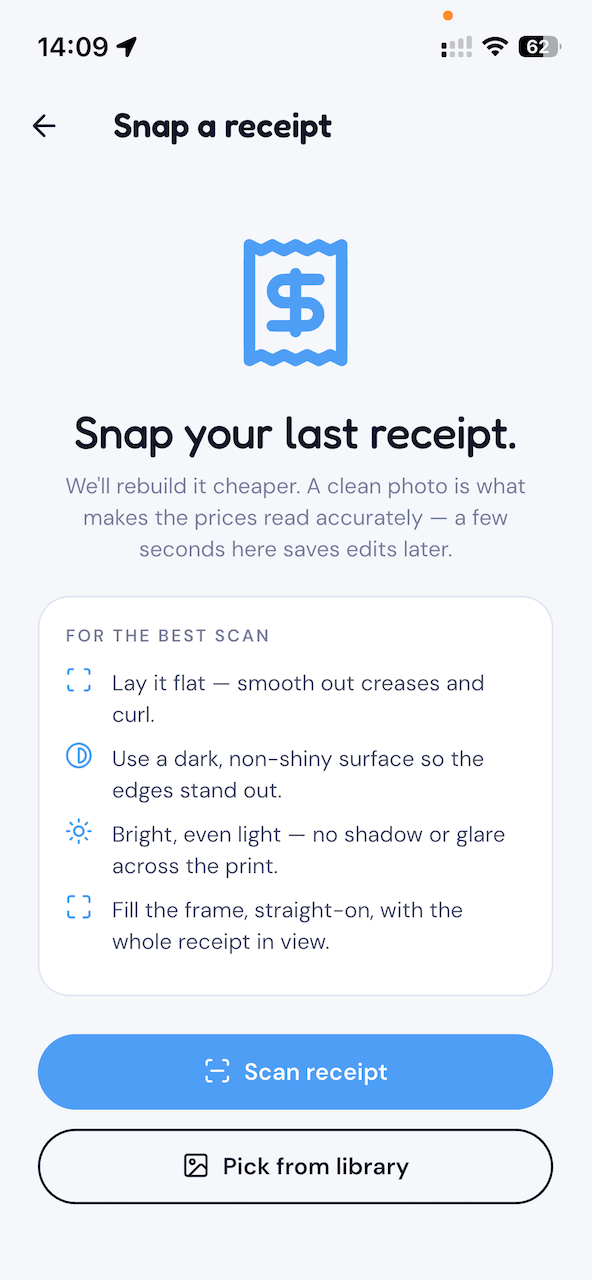
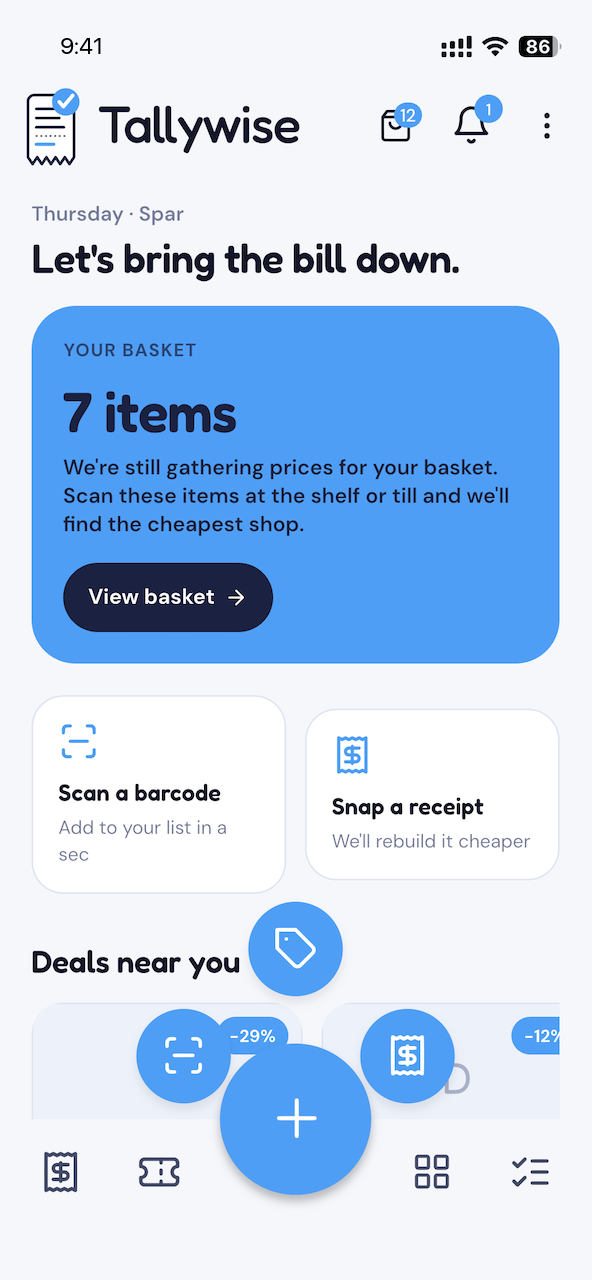
Add shopping-lists section + FAQ; refresh the screenshot strip to 4-up
- New "Your shopping list — shared, and priced" home feature section and
  a "Can I share a shopping list?" FAQ entry, localized en/nl/fr/de.
- Refresh the "See it in your hand" / "What it looks like" strips to a
  4-up grid (scan · list · compare · deals) using the new on-brand
  iOS screenshots; drop the old receipt/spend shots. Responsive grid
  (4 → 2 → 1 columns).

diff --git a/src/i18n/content/fr.ts b/src/i18n/content/fr.ts
@@ -82,6 +82,24 @@ export const fr: SiteContent = {
         },
       ],
     },
+    listsSec: {
+      h2: 'Votre liste de courses — partagée et chiffrée.',
+      lead: 'Composez une liste en scannant, en cherchant ou simplement en tapant un article, puis partagez-la avec ceux qui font les courses avec vous. Chacun ajoute à la même liste, vous cochez au fur et à mesure — et Tallywise affiche le total estimé avant de partir.',
+      cards: [
+        {
+          h: 'Ajoutez comme vous voulez',
+          p: 'Scannez un code-barres, cherchez dans le catalogue ou tapez simplement &laquo;&nbsp;bananes&nbsp;&raquo;. Ajustez les quantités et cochez les articles pendant vos courses, avec une barre de progression en direct.',
+        },
+        {
+          h: 'Partagez avec votre foyer',
+          p: "Partagez une liste par e-mail &mdash; en lecture ou en modification. Tout le monde complète la même liste, donc rien n'est acheté en double ni oublié. Invitez quelqu'un qui n'est pas encore sur Tallywise : la liste l'attend dès son inscription.",
+        },
+        {
+          h: 'Sachez le coût à l’avance',
+          p: 'Chaque article est chiffré à partir de courses réelles : vous voyez un <em>total estimé</em> &mdash; à peu près ce que coûtera votre panier &mdash; avant d’y aller.',
+        },
+      ],
+    },
     couponsSec: {
       h2: 'Ne perdez plus jamais un bon de réduction.',
       lead: 'Ces bons imprimés au bas de votre ticket de caisse ? Tallywise les enregistre sur votre téléphone et affiche le code-barres directement en caisse — le bon est ainsi dans votre poche, pas froissé dans un tiroir et périmé.',
@@ -104,8 +122,9 @@ export const fr: SiteContent = {
       h2: 'Voyez-la dans votre main.',
       items: [
         { alt: 'Écran de scan Tallywise — scannez un code-barres ou photographiez un ticket de caisse.', caption: 'Scannez un code-barres, ou photographiez un ticket.' },
-        { alt: 'Écran ticket Tallywise — produits et prix analysés depuis un ticket de caisse.', caption: 'Votre ticket, lu sur l’appareil en produits.' },
-        { alt: 'Écran dépenses Tallywise — vos dépenses de courses hebdomadaires dans le temps, par catégorie.', caption: 'Voyez où passe votre budget courses.' },
+        { alt: 'Liste de courses Tallywise — partagée, chaque article chiffré avec un total en direct.', caption: 'Une liste de courses partagée, chiffrée au fur et à mesure.' },
+        { alt: 'Écran produit Tallywise — un produit chiffré dans chaque supermarché.', caption: 'Le prix de chaque enseigne, côte à côte.' },
+        { alt: 'Offres Tallywise — récentes baisses de prix dans les supermarchés près de chez vous.', caption: 'Les offres près de chez vous, repérées pour vous.' },
       ],
     },
     stores: {
@@ -125,6 +144,7 @@ export const fr: SiteContent = {
         { q: 'Tallywise fonctionne-t-elle hors ligne ?', a: 'Oui. Scannez un ticket ou enregistrez un prix sans réseau et Tallywise le garde sur votre téléphone, puis le synchronise automatiquement dès que vous êtes en ligne — un rayon en sous-sol ou une zone morte en caisse ne vous fait jamais perdre votre scan.' },
         { q: 'Puis-je récupérer mes données ?', a: 'Oui. Exportez vos tickets en CSV depuis la liste des tickets, et exportez ou supprimez votre compte et vos données depuis les Réglages à tout moment — sans e-mail.' },
         { q: 'Le nom ou la taille d’un produit semble incorrect — puis-je le corriger ?', a: 'Vous pouvez proposer une correction (nom, marque ou format) directement depuis l’écran du produit. Dès qu’un autre client confirme les mêmes informations, la fiche produit partagée est mise à jour pour tout le monde — le catalogue est construit et tenu honnête par la communauté.' },
+        { q: 'Puis-je partager une liste de courses ?', a: "Oui. Composez une liste en scannant, en cherchant ou en tapant des articles, puis partagez-la par e-mail &mdash; en lecture seule ou modifiable. Toutes les personnes avec qui vous partagez complètent la même liste et cochent au fur et à mesure, et Tallywise affiche un total estimé. Vous pouvez même inviter quelqu'un qui n'est pas encore sur Tallywise ; la liste l'attend dès son inscription." },
       ],
     },
     membership: {
@@ -190,8 +210,9 @@ export const fr: SiteContent = {
       h2: 'À quoi ça ressemble.',
       items: [
         { alt: 'Écran de scan Tallywise — commencez par un code-barres ou un ticket de caisse.', caption: 'Commencez par un code-barres ou un ticket.' },
-        { alt: 'Écran ticket Tallywise — produits et prix lus depuis un ticket de caisse.', caption: 'Chaque ligne lue sur l’appareil.' },
-        { alt: 'Écran dépenses Tallywise — dépenses de courses hebdomadaires dans le temps, par catégorie.', caption: 'Vos dépenses dans le temps, par catégorie.' },
+        { alt: 'Liste de courses Tallywise — ajoutez par scan, recherche ou texte libre ; cochez au fur et à mesure.', caption: 'Composez une liste — scannez, cherchez ou tapez.' },
+        { alt: 'Écran produit Tallywise — le même produit chiffré dans chaque enseigne qui le vend.', caption: 'Voyez qui est le moins cher pour chaque article.' },
+        { alt: 'Offres Tallywise — récentes baisses de prix dans les magasins à proximité.', caption: 'Attrapez les baisses de prix près de chez vous.' },
       ],
     },
     ctaHeading: 'Essayez-la lors de vos prochaines courses.',

diff --git a/src/i18n/content/de.ts b/src/i18n/content/de.ts
@@ -82,6 +82,24 @@ export const de: SiteContent = {
         },
       ],
     },
+    listsSec: {
+      h2: 'Deine Einkaufsliste — geteilt und mit Preisen.',
+      lead: 'Erstelle eine Liste durch Scannen, Suchen oder einfaches Eintippen und teile sie mit allen, mit denen du einkaufst. Jeder ergänzt dieselbe Liste, du hakst beim Einkaufen ab — und Tallywise zeigt die geschätzte Summe, bevor du losgehst.',
+      cards: [
+        {
+          h: 'Füge alles hinzu, wie du willst',
+          p: 'Scanne einen Barcode, durchsuche den Katalog oder tippe einfach &bdquo;Bananen&ldquo;. Passe Mengen an und hake Artikel beim Einkaufen ab &mdash; mit einer Live-Fortschrittsanzeige.',
+        },
+        {
+          h: 'Teile mit deinem Haushalt',
+          p: 'Teile eine Liste per E-Mail &mdash; zum Ansehen oder Bearbeiten. Alle ergänzen dieselbe Liste, sodass nichts doppelt gekauft oder vergessen wird. Lade jemanden ein, der noch nicht bei Tallywise ist &mdash; die Liste wartet, sobald er sich anmeldet.',
+        },
+        {
+          h: 'Kenne die Kosten vorab',
+          p: 'Jeder Artikel ist anhand echter Einkäufe bepreist, sodass du eine <em>geschätzte Summe</em> siehst &mdash; ungefähr, was dein Einkauf kostet &mdash; bevor du losgehst.',
+        },
+      ],
+    },
     couponsSec: {
       h2: 'Nie wieder einen Rabattgutschein verlieren.',
       lead: 'Diese Gutscheine, die unten auf deinem Kassenbon gedruckt sind? Tallywise speichert sie auf deinem Handy und zeigt den Barcode direkt an der Kasse — so steckt der Gutschein in deiner Tasche, nicht zerknüllt und abgelaufen in einer Schublade.',
@@ -104,8 +122,9 @@ export const de: SiteContent = {
       h2: 'Sieh sie in deiner Hand.',
       items: [
         { alt: 'Tallywise-Scan-Bildschirm — scanne einen Barcode oder fotografiere einen Kassenbon.', caption: 'Scanne einen Barcode oder fotografiere einen Kassenbon.' },
-        { alt: 'Tallywise-Kassenbon-Bildschirm — erkannte Artikel und Preise von einem Kassenbon.', caption: 'Dein Kassenbon, auf dem Gerät in Artikel umgesetzt.' },
-        { alt: 'Tallywise-Ausgaben-Bildschirm — deine wöchentlichen Lebensmittelausgaben über die Zeit, nach Kategorie.', caption: 'Sieh, wohin dein Einkaufsbudget fließt.' },
+        { alt: 'Tallywise-Einkaufsliste — geteilt, mit Preis je Artikel und laufender Summe.', caption: 'Eine geteilte Einkaufsliste, bepreist beim Hinzufügen.' },
+        { alt: 'Tallywise-Produktbildschirm — ein Produkt bei jedem Supermarkt bepreist.', caption: 'Der Preis jedes Markts, nebeneinander.' },
+        { alt: 'Tallywise-Angebote — aktuelle Preissenkungen in Supermärkten in deiner Nähe.', caption: 'Angebote in deiner Nähe, für dich entdeckt.' },
       ],
     },
     stores: {
@@ -125,6 +144,7 @@ export const de: SiteContent = {
         { q: 'Funktioniert Tallywise offline?', a: 'Ja. Scanne einen Kassenbon oder erfasse einen Preis ohne Empfang, und Tallywise speichert es auf deinem Handy und synchronisiert es automatisch, sobald du wieder online bist — ein Kellerregal oder ein Funkloch an der Kasse lässt dich nie einen Scan verlieren.' },
         { q: 'Kann ich meine Daten exportieren?', a: 'Ja. Exportiere deine Kassenbons als CSV aus der Bonliste, und exportiere oder lösche dein Konto und deine Daten jederzeit in den Einstellungen — ohne E-Mail.' },
         { q: 'Name oder Größe eines Produkts wirken falsch — kann ich das korrigieren?', a: 'Du kannst direkt vom Produktbildschirm eine Korrektur vorschlagen (Name, Marke oder Packungsgröße). Sobald ein anderer Kunde dieselben Angaben bestätigt, wird der geteilte Produkteintrag für alle aktualisiert — der Katalog wird von der Gemeinschaft aufgebaut und ehrlich gehalten.' },
+        { q: 'Kann ich eine Einkaufsliste teilen?', a: 'Ja. Erstelle eine Liste durch Scannen, Suchen oder Eintippen und teile sie per E-Mail &mdash; schreibgeschützt oder bearbeitbar. Alle, mit denen du teilst, ergänzen dieselbe Liste und haken beim Einkaufen ab, und Tallywise zeigt eine geschätzte Summe. Du kannst sogar jemanden einladen, der noch nicht bei Tallywise ist; die Liste wartet, sobald er sich anmeldet.' },
       ],
     },
     membership: {
@@ -190,8 +210,9 @@ export const de: SiteContent = {
       h2: 'So sieht es aus.',
       items: [
         { alt: 'Tallywise-Scan-Bildschirm — beginne mit einem Barcode oder einem Kassenbon.', caption: 'Beginne mit einem Barcode oder einem Kassenbon.' },
-        { alt: 'Tallywise-Kassenbon-Bildschirm — Artikel und Preise von einem Kassenbon gelesen.', caption: 'Jede Zeile auf dem Gerät gelesen.' },
-        { alt: 'Tallywise-Ausgaben-Bildschirm — wöchentliche Lebensmittelausgaben über die Zeit, nach Kategorie.', caption: 'Deine Ausgaben über die Zeit, nach Kategorie.' },
+        { alt: 'Tallywise-Einkaufsliste — hinzufügen per Scan, Suche oder Freitext; beim Einkaufen abhaken.', caption: 'Erstelle eine Liste — scannen, suchen oder tippen.' },
+        { alt: 'Tallywise-Produktbildschirm — dasselbe Produkt bei jedem Markt bepreist, der es führt.', caption: 'Sieh, wer bei jedem Artikel am günstigsten ist.' },
+        { alt: 'Tallywise-Angebote — aktuelle Preissenkungen in Geschäften in der Nähe.', caption: 'Schnapp dir die Preissenkungen in deiner Nähe.' },
       ],
     },
     ctaHeading: 'Probier sie bei deinem nächsten Einkauf.',

diff --git a/src/i18n/content/nl.ts b/src/i18n/content/nl.ts
@@ -82,6 +82,24 @@ export const nl: SiteContent = {
         },
       ],
     },
+    listsSec: {
+      h2: 'Je boodschappenlijst — gedeeld én met prijzen.',
+      lead: 'Stel een lijst samen door te scannen, te zoeken of gewoon een item te typen, en deel hem met wie je mee boodschappen doet. Iedereen voegt toe aan dezelfde lijst, je vinkt af terwijl je winkelt — en Tallywise toont het geschatte totaal voordat je de deur uit gaat.',
+      cards: [
+        {
+          h: 'Voeg toe zoals je wilt',
+          p: 'Scan een barcode, doorzoek de catalogus of typ gewoon &ldquo;bananen.&rdquo; Pas aantallen aan en vink items af tijdens het winkelen, met een live voortgangsbalk.',
+        },
+        {
+          h: 'Deel met je huishouden',
+          p: 'Deel een lijst per e-mail &mdash; bekijken of bewerken. Iedereen vult dezelfde lijst aan, zodat niets dubbel wordt gekocht of vergeten. Nodig iemand uit die nog geen Tallywise heeft en de lijst staat klaar zodra ze zich aanmelden.',
+        },
+        {
+          h: 'Weet vooraf wat het kost',
+          p: 'Elk item is geprijsd op basis van echte boodschappen, dus je ziet een <em>geschat totaal</em> &mdash; ongeveer wat je boodschappen kosten &mdash; voordat je gaat.',
+        },
+      ],
+    },
     couponsSec: {
       h2: 'Nooit meer een kortingsbon kwijt.',
       lead: 'Die bonnetjes die onderaan je kassabon worden afgedrukt? Tallywise bewaart ze op je telefoon en toont de streepjescode gewoon aan de kassa — zo zit de bon in je zak, niet verfrommeld in een lade en over datum.',
@@ -104,8 +122,9 @@ export const nl: SiteContent = {
       h2: 'Zie het in je hand.',
       items: [
         { alt: 'Tallywise-scanscherm — scan een streepjescode of maak een foto van een kassabon.', caption: 'Scan een streepjescode, of fotografeer een kassabon.' },
-        { alt: 'Tallywise-kassabonscherm — verwerkte producten en prijzen van een kassabon.', caption: 'Je kassabon, op het toestel omgezet in producten.' },
-        { alt: 'Tallywise-uitgavenscherm — je wekelijkse boodschappenuitgaven over tijd, per categorie.', caption: 'Zie waar je boodschappengeld naartoe gaat.' },
+        { alt: 'Tallywise-boodschappenlijst — gedeeld, met elk item geprijsd en een lopend totaal.', caption: 'Een gedeelde boodschappenlijst, geprijsd terwijl je toevoegt.' },
+        { alt: 'Tallywise-productscherm — één product geprijsd bij elke supermarkt.', caption: 'De prijs van elke winkel, naast elkaar.' },
+        { alt: 'Tallywise-deals — recente prijsdalingen bij supermarkten bij jou in de buurt.', caption: 'Deals bij jou in de buurt, voor je gespot.' },
       ],
     },
     stores: {
@@ -125,6 +144,7 @@ export const nl: SiteContent = {
         { q: 'Werkt Tallywise offline?', a: 'Ja. Scan een kassabon of registreer een prijs zonder verbinding en Tallywise bewaart het op je telefoon, en synchroniseert het automatisch de volgende keer dat je online bent — zo verlies je nooit een scan door een kelderafdeling of een dode zone aan de kassa.' },
         { q: 'Kan ik mijn gegevens exporteren?', a: 'Ja. Exporteer je kassabonnen naar een CSV vanuit de bonnenlijst, en exporteer of verwijder je account en gegevens op elk moment via Instellingen — zonder e-mail.' },
         { q: 'De naam of het formaat van een product klopt niet — kan ik dat verbeteren?', a: 'Je kunt een correctie voorstellen (naam, merk of verpakkingsgrootte) rechtstreeks vanaf het productscherm. Zodra een andere shopper dezelfde gegevens bevestigt, wordt het gedeelde productitem voor iedereen bijgewerkt — de catalogus wordt door de gemeenschap opgebouwd en eerlijk gehouden.' },
+        { q: 'Kan ik een boodschappenlijst delen?', a: 'Ja. Stel een lijst samen door items te scannen, te zoeken of te typen en deel hem per e-mail &mdash; alleen-lezen of bewerkbaar. Iedereen met wie je deelt vult dezelfde lijst aan en vinkt af tijdens het winkelen, en Tallywise toont een geschat totaal. Je kunt zelfs iemand uitnodigen die nog geen Tallywise heeft; de lijst staat klaar zodra ze zich aanmelden.' },
       ],
     },
     membership: {
@@ -190,8 +210,9 @@ export const nl: SiteContent = {
       h2: 'Hoe het eruitziet.',
       items: [
         { alt: 'Tallywise-scanscherm — begin met een streepjescode of een kassabon.', caption: 'Begin met een streepjescode of een kassabon.' },
-        { alt: 'Tallywise-kassabonscherm — producten en prijzen gelezen van een kassabon.', caption: 'Elke regel op het toestel gelezen.' },
-        { alt: 'Tallywise-uitgavenscherm — wekelijkse boodschappenuitgaven over tijd, per categorie.', caption: 'Je uitgaven over tijd, per categorie.' },
+        { alt: 'Tallywise-boodschappenlijst — voeg toe via scan, zoeken of vrije tekst; vink af tijdens het winkelen.', caption: 'Stel een lijst samen — scan, zoek of typ het gewoon.' },
+        { alt: 'Tallywise-productscherm — hetzelfde product geprijsd bij elke winkel die het verkoopt.', caption: 'Zie wie het goedkoopst is voor elk item.' },
+        { alt: 'Tallywise-deals — recente prijsdalingen bij winkels in de buurt.', caption: 'Pak de prijsdalingen bij jou in de buurt.' },
       ],
     },
     ctaHeading: 'Probeer het bij je volgende boodschappen.',

diff --git a/src/i18n/content/en.ts b/src/i18n/content/en.ts
@@ -84,6 +84,24 @@ export const en = {
         },
       ],
     },
+    listsSec: {
+      h2: 'Your shopping list — shared, and priced.',
+      lead: "Build a list by scanning, searching, or just typing an item, then share it with whoever you shop with. Everyone adds to the same list, you tick things off as you go — and Tallywise shows the estimated total before you leave the house.",
+      cards: [
+        {
+          h: 'Add it any way',
+          p: 'Scan a barcode, search the catalogue, or just type &ldquo;bananas.&rdquo; Adjust quantities and tick items off as you shop, with a live progress bar.',
+        },
+        {
+          h: 'Share with your household',
+          p: "Share a list by email &mdash; view or edit. Everyone adds to the same one, so nothing gets bought twice or forgotten. Invite someone who isn't on Tallywise yet and the list is waiting when they join.",
+        },
+        {
+          h: 'Know the cost up front',
+          p: 'Every item is priced from real shopping, so you see an <em>estimated total</em> &mdash; roughly what your shop will cost &mdash; before you go.',
+        },
+      ],
+    },
     couponsSec: {
       h2: 'Never lose a money-off coupon again.',
       lead: "Those vouchers printed at the bottom of your receipt? Tallywise saves them to your phone and shows the barcode right at the till — so the coupon's in your pocket, not crumpled in a drawer past its date.",
@@ -106,8 +124,9 @@ export const en = {
       h2: 'See it in your hand.',
       items: [
         { alt: 'Tallywise scan screen — scan a barcode or snap a receipt.', caption: 'Scan a barcode, or snap a receipt.' },
-        { alt: 'Tallywise receipt screen — parsed items and prices from a shopping receipt.', caption: 'Your receipt, read on-device into items.' },
-        { alt: 'Tallywise spend screen — your weekly grocery spend over time, by category.', caption: 'See where your grocery spend goes.' },
+        { alt: 'Tallywise shopping list — shared, with each item priced and a running total.', caption: 'A shared shopping list, priced as you add.' },
+        { alt: 'Tallywise product screen — one product priced across every supermarket.', caption: 'Every store’s price, side by side.' },
+        { alt: 'Tallywise deals — recent price drops at supermarkets near you.', caption: 'Deals near you, spotted for you.' },
       ],
     },
     stores: {
@@ -127,6 +146,7 @@ export const en = {
         { q: 'Does Tallywise work offline?', a: "Yes. Scan a receipt or record a price with no signal and Tallywise saves it on your phone, then syncs it automatically the next time you're online — so a basement aisle or a dead spot at the till never loses your scan." },
         { q: 'Can I get my data out?', a: 'Yes. Export your receipts to a CSV from the receipts list, and export or delete your account and data from Settings at any time — no email required.' },
         { q: "A product's name or size looks wrong — can I fix it?", a: 'You can suggest a correction (name, brand or pack size) right from the product screen. Once another shopper confirms the same details, the shared product entry updates for everyone — the catalogue is built and kept honest by the community.' },
+        { q: 'Can I share a shopping list?', a: "Yes. Build a list by scanning, searching or typing items, then share it by email &mdash; view-only or editable. Everyone you share with adds to the same list and ticks items off as you shop, and Tallywise shows an estimated total. You can even invite someone who isn't on Tallywise yet; the list is waiting when they sign up." },
       ],
     },
     membership: {
@@ -192,8 +212,9 @@ export const en = {
       h2: 'What it looks like.',
       items: [
         { alt: 'Tallywise scan screen — start with a barcode or a receipt.', caption: 'Start with a barcode or a receipt.' },
-        { alt: 'Tallywise receipt screen — items and prices read from a shopping receipt.', caption: 'Every line read on-device.' },
-        { alt: 'Tallywise spend screen — weekly grocery spend over time, by category.', caption: 'Your spend over time, by category.' },
+        { alt: 'Tallywise shopping list — add by scan, search or free text; tick off as you shop.', caption: 'Build a list — scan, search or just type it.' },
+        { alt: 'Tallywise product screen — the same product priced at every store that stocks it.', caption: 'See who’s cheapest for each item.' },
+        { alt: 'Tallywise deals — recent price drops at nearby stores.', caption: 'Catch the price drops near you.' },
       ],
     },
     ctaHeading: 'Try it on your next shop.',

diff --git a/src/styles/global.css b/src/styles/global.css
@@ -312,9 +312,12 @@ section h2 {
 /* ── Screenshots (raw app screens — framed by CSS) ── */
 .shots__grid {
   display: grid;
-  grid-template-columns: repeat(3, 1fr);
-  gap: 32px;
+  grid-template-columns: repeat(4, 1fr);
+  gap: 28px;
   align-items: start;
+}
+@media (max-width: 900px) {
+  .shots__grid { grid-template-columns: repeat(2, 1fr); gap: 36px; }
 }
 .shot { margin: 0; text-align: center; }
 .shot img {
@@ -331,7 +334,7 @@ section h2 {
   color: var(--ink3);
   font-size: 0.98rem;
 }
-@media (max-width: 720px) {
+@media (max-width: 480px) {
   .shots__grid { grid-template-columns: 1fr; gap: 44px; max-width: 300px; margin: 0 auto; }
 }
 
